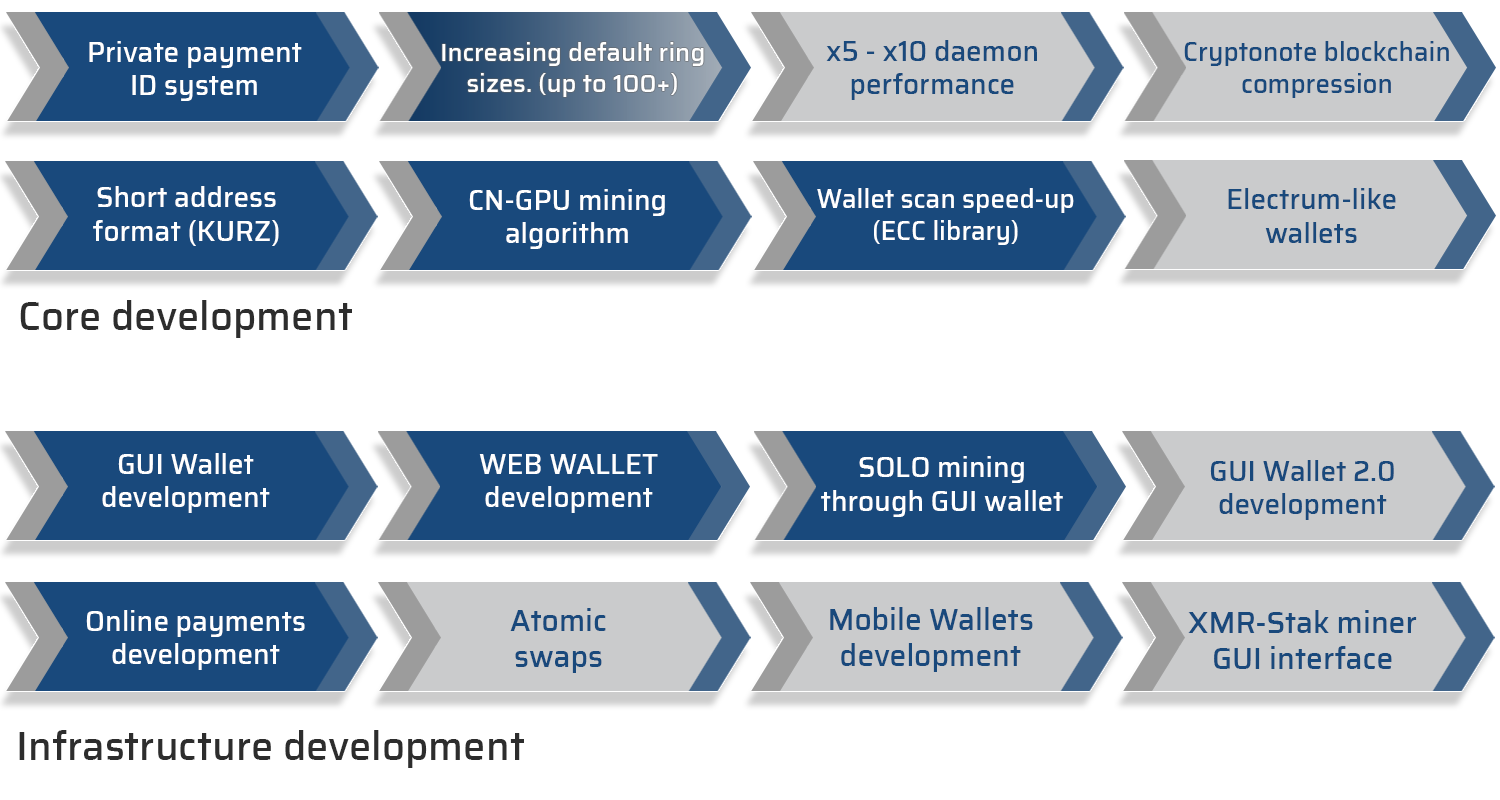
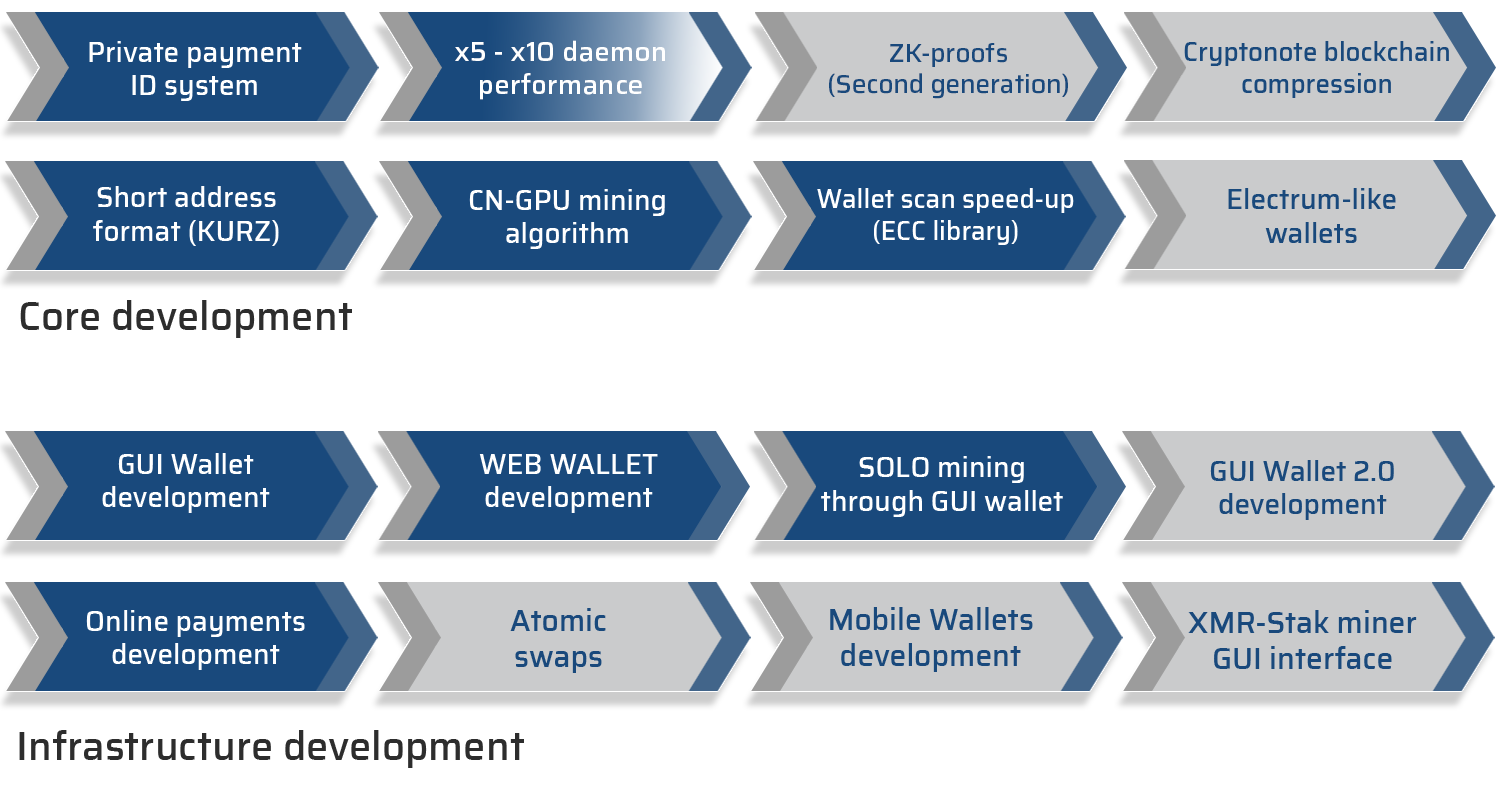
Update README

Changed region(s): [[0.276, 0.0, 0.5213, 0.1562], [0.5213, 0.0312, 0.736, 0.1562], [0.7053, 0.0312, 0.736, 0.0625]]

diff --git a/README.md b/README.md
@@ -1,6 +1,6 @@
 [<img src="doc/img/main_banner.png">](https://ryo-currency.com/ryo-serious-competitor-to-monero)
 
-Ryo is one of very few cryptonote currencies that does actual, rapid development. Its team is led by fireice_uk, mosu_forge and psychocrypt who are the developers of [Cryptonight-GPU](https://medium.com/@crypto_ryo/cryptonight-gpu-fpga-proof-pow-algorithm-based-on-floating-point-instructions-92524debf8e8) and [Cryptonight-Heavy](https://github.com/ryo-currency/ryo-writeups/blob/master/cn-heavy.md) mining algorithms, GUI Wallet with built-in GPU solo mining feature called [Ryo Wallet Atom](https://ryo-currency.com/atom) and [Xmr-Stak](https://github.com/fireice-uk/xmr-stak/releases) miner.
+Ryo is one of very few cryptonote currencies that does actual, rapid development. Its team is led by fireice_uk, mosu_forge and psychocrypt who are the developers of [Cryptonight-GPU](https://ryo-currency.com/cn-gpu) and [Cryptonight-Heavy](https://github.com/ryo-currency/ryo-writeups/blob/master/cn-heavy.md) mining algorithms, GUI Wallet with built-in GPU solo mining feature called [Ryo Wallet Atom](https://ryo-currency.com/atom), [Xmr-Stak](https://github.com/fireice-uk/xmr-stak/releases) miner, and [Ragerx](http://ragerx.lol/) mining platform.
 - Website: [ryo-currency.com](https://ryo-currency.com)
 - Mail: [contact@ryo-currency.com](mailto:contact@ryo-currency.com)
 
@@ -10,16 +10,19 @@ Ryo is one of very few cryptonote currencies that does actual, rapid development
 | 1. [Introduction](#introduction) | 7. [Community](#community) |
 | 2. [Check Development and get release binaries](#check-development-and-get-release-binaries) | 8. [Compiling Ryo from source](doc/compiling.md) |
 | 3. [Project Roadmap](#project-roadmap) | 9. [Debugging](doc/debugging.md) |
-| 4. [Features](#features) | 10. [LMDB](doc/lmdb.md) |
-| 5. [Research and contributing](#research-and-contributing) | 11. [Using Ryo with TOR and Readline](doc/tor_readline.md) |
-| 6. [Coin Supply & Emission](#coin-supply--emission) | 12. [Licensing details](#licensing-details) |
+| 4. [Features](#features) | 10. [Using Ryo with TOR and Readline](doc/tor_readline.md) |
+| 5. [Research and contributing](#research-and-contributing) | 11. [Licensing details](#licensing-details) |
+| 6. [Coin Supply & Emission](#coin-supply--emission) | |
 
 
 ## Introduction
-Ryo (両 in Japanese: one syllable) is the most **secure, private and untraceable cryptocurrency out there**. Ryo originated from the [_Tael_](https://en.wikipedia.org/wiki/Ry%C5%8D), an ancient Far East unit of weight standard used for exchanging gold and silver. Based on the foundations of Monero, Ryo emerged and is poised to dominate the privacy conscious crypto scene. Ryo is a fork of Sumokoin. You can read all fork-related information [here](doc/sumokoin.md).
+Ryo (両 in Japanese: one syllable) aims to be the most **secure, private and untraceable cryptocurrency out there**. Ryo originated from the [_Tael_](https://en.wikipedia.org/wiki/Ry%C5%8D), an ancient Far East unit of weight standard used for exchanging gold and silver. Based on the foundations of Monero, Ryo emerged and is poised to dominate the privacy conscious crypto scene. Ryo is a fork of Sumokoin. You can read all fork-related information [here](doc/sumokoin.md).
+
+## RingCT
+Ryo currently uses RingCT with a ring size of 25, however it is our decision that RingCT cannot fully protect against transaction tracking. As our promise to create the most private and untraceable cryptocurrency, we are planning on replacing RingCT with second generation ZK-proofs.
 
 ## Check Development and get release binaries
-[<img src="doc/img/github.png">](https://github.com/ryo-currency/ryo-currency/commits/dev)  
+[<img src="doc/img/github.png">](https://github.com/ryo-currency/ryo-currency/commits/dev)
 
 Please note that code is developed on the [dev branch](https://github.com/ryo-currency/ryo-currency/tree/dev), if you want to check out the latest updates, before they are merged on main branch, please refer there. Master branch will always point to a version that we consider stable, so you can download the code by simply typing `git clone https://github.com/ryo-currency/ryo-currency.git`
 
@@ -30,20 +33,20 @@ The authenticity of the checksums can be verified with the [PGP-key's](doc/pgp_k
 
 ## Project Roadmap
 The Ryo dev team has several vectors of development, and it has already brought results that we can see.
-[<img src="doc/img/RM.png">](https://ryo-currency.com#roadmap)  
+[<img src="doc/img/RM.png">](https://ryo-currency.com#roadmap)
 Navigate to Ryo official website to explore development track record and [roadmap](https://ryo-currency.com#roadmap) details.
 
 
 ## Features
-We have a solid track record and unique features that are not copied from other projects: 
+We have a solid track record and unique features that are not copied from other projects:
 
 
 [<img src="doc/img/ecc-banner.png">](https://github.com/ryo-currency/ryo-currency/pull/206)
 ### Core:
 - **Built-in elliptic curve library**. This library significantly increases wallet scan speeds compared to other CN projects.
-- **[Cryptonight-GPU mining algorithm](https://medium.com/@crypto_ryo/cryptonight-gpu-fpga-proof-pow-algorithm-based-on-floating-point-instructions-92524debf8e8)**. ASIC/FPGA/BOTNET resistant mining algorithm. GPU friendly and suitable for both AMD and Nvidia cards.
+- **[Cryptonight-GPU mining algorithm](https://ryo-currency.com/cn-gpu)**. ASIC/FPGA/BOTNET resistant mining algorithm. GPU friendly and suitable for both AMD and Nvidia cards.
 - **Uniform payment ID-s**. Our uniform payment ID system, makes transactions that use payment ID-s untraceable and hides the very fact that you use ID-s.
-- **Default ring size of transactions set to 25**. Increased default ring size significantly reduces the chance of being identified, traced or attacked by blockchain statistical analysis.
+- **Default ring size of transactions set to 25**. Increased default ring size significantly reduces the chance of address tracking on the blockchain.
 - **QWMA mining difficulty algorithm**. Reworked network difficulty adjustment algorithm, to make it more adaptive to network hashrate fluctuations thus bringing more stabillity.
 - **[Poisson probability check](https://github.com/ryo-currency/ryo-writeups/blob/master/poisson-writeup.md)**. This feature stops Verge-like offline timestamp attacks.
 - **(Optional) Short address format**. Short address format for users who don't need viewkey.
@@ -58,26 +61,28 @@ We have a solid track record and unique features that are not copied from other 
 
 GUI wallet | Web wallet | Cli wallet | Mobile | Hardware
 --- | --- | --- | --- | ---
-[v. 1.4.0](https://github.com/ryo-currency/ryo-wallet/releases/latest) | [Ryowebwallet](https://www.ryowebwallet.com/wallet-select) | [v. 0.4.1.0](https://github.com/ryo-currency/ryo-currency/releases/latest) | Developing | Planned
+[v. 1.5.0](https://github.com/ryo-currency/ryo-wallet/releases/latest) | [Ryowebwallet](https://www.ryowebwallet.com/wallet-select) | [v. 0.5.0.0](https://github.com/ryo-currency/ryo-currency/releases/latest) | Developing | Planned
 
 ## Research and contributing
 With privacy and security as the core foundation of Ryo, we invest time and effort into security research as well as investigate and analyze issues with the Cryptonote protocol in order to bring true default anonymity for users.
 - [Hiding your IP while using Ryo or other Cryptonotes](https://www.reddit.com/r/ryocurrency/comments/a4mppi/hiding_your_ip_while_using_ryo_or_other/)
 - [Tracing Cryptonote ring signatures using external metadata](https://medium.com/@crypto_ryo/tracing-cryptonote-ring-signatures-using-external-metadata-8e4866810006).
 - [How buying pot with Monero will get you busted — Knacc attack on Cryptonote coins](https://medium.com/@crypto_ryo/how-buying-pot-with-monero-will-get-you-busted-knacc-attack-on-cryptonote-coins-b157cd97e82f).
-- [On-chain tracking of Monero and other Cryptonotes](https://medium.com/@crypto_ryo/on-chain-tracking-of-monero-and-other-cryptonotes-e0afc6752527).  
+- [On-chain tracking of Monero and other Cryptonotes](https://medium.com/@crypto_ryo/on-chain-tracking-of-monero-and-other-cryptonotes-e0afc6752527).
+
 You can find all write-ups in our [Ryo library](https://ryo-currency.com/library/) on the website.
 
-Although Ryo Currency code in main repository is source available until February 2020, we have contributed back bug fixes and features to Monero project:
+Although Ryo Currency code in main repository is source available until February 2021, we have contributed back bug fixes and features to Monero project:
 - [Add Unicode input line](https://github.com/monero-project/monero/pull/4390).
-- [Fix for a wallet caching bug](https://github.com/monero-project/monero/pull/4247).  
-Loki Project decided to use own version of wallet, based on Ryo Wallet Atom [(libre repository)](https://github.com/ryo-currency/ryo-wallet-libre) as official GUI wallet. Triton Project uses GUI wallet that is based on Ryo Wallet Atom too.
- 
+- [Fix for a wallet caching bug](https://github.com/monero-project/monero/pull/4247).
+
+Loki Project decided to use own version of wallet, based on Ryo Wallet Atom [(libre repository)](https://github.com/ryo-currency/ryo-wallet-libre) as official GUI wallet.
+
 
 ## Coin Supply & Emission
 - **Total supply**: **88,188,888** coins in 20 years, then **263,000** coins will be emitted yearly to account for inflation.
 - More than **80 million coins are available** for community mining.
-- 8,790,000 Ryo coins were burned to get rid of the original Sumokoin premine. (You can check [burned premine keyimages](https://github.com/ryo-currency/ryo-currency/tree/master/utils/burned_premine_keyimages)). Additionally, 100,000 coins were premined and instantly unlocked to Sumokoin devs in 2017. The pre-mined coins have been [frozen/burned](https://github.com/ryo-currency/ryo-currency/blob/917dbb993178bb8a2ea571f214b15adcbb7c708f/src/blockchain_db/blockchain_db.cpp#L364) as announced on [reddit](https://www.reddit.com/r/ryocurrency/comments/8nb8eq/direction_for_ryo/). This can be verified using [those](/doc/verify_premine_burn_instructions.md) instructions.
+- 8,790,000 Ryo coins were burned to get rid of the original Sumokoin premine. (You can check [burned premine keyimages](https://github.com/ryo-currency/ryo-currency/tree/master/utils/burned_premine_keyimages)). The pre-mined coins have been [frozen/burned](https://github.com/ryo-currency/ryo-currency/blob/917dbb993178bb8a2ea571f214b15adcbb7c708f/src/blockchain_db/blockchain_db.cpp#L364) as announced on [reddit](https://www.reddit.com/r/ryocurrency/comments/8nb8eq/direction_for_ryo/). This can be verified using [those](/doc/verify_premine_burn_instructions.md) instructions.
 
 - After 2 rounds of community debates [(pt1](https://www.reddit.com/r/ryocurrency/comments/8xsyqo/community_debate_lets_talk_about_the_development/e26i1vw/) / [pt2)](https://github.com/ryo-currency/ryo-writeups/blob/master/dev-fund.md) **8,000,000** Ryo coins were introduced as development fund which is located in 2/3 multisig wallet and emitted on weekly basis next 6 years. In an effort to provide transparency to the community on how the development fund is allocated, Ryo dev team built the following [dev-fund explorer page](https://ryo-currency.com/dev-fund/).
 
@@ -91,7 +96,7 @@ Loki Project decided to use own version of wallet, based on Ryo Wallet Atom [(li
   + 1 milliRyo = 0.001 **RYO** (10<sup>-3</sup>)
 - **Emission scheme**: Ryo's block reward changes _every 6-months_ according to the following "Plateau" distribution*. Our emission scheme is inspired by real-world mining production comparable to crude oil, coal and gas which is often slow at first, accelerated in the next few years before declining and becoming depleted. However, the emission path of Ryo is generally not that far apart from Bitcoin. The emission curve for Ryo was one of the final aspects of the code we inherited from Sumokoin that was re-written and had to be even [fixed](https://medium.com/@ryo.currency/fixing-a-broken-emission-curve-818300e145a2) during May 2019 [community debates](https://github.com/ryo-currency/ryo-writeups/blob/master/emission-change-part-two.md).
 
-![Plateau emission curve](doc/img/emission-curve.png) 
+![Plateau emission curve](doc/img/emission-curve.png)
 
 ![Plateau emission block reward](doc/img/emission-block.png)
 

diff --git a/doc/compiling.md b/doc/compiling.md
@@ -36,7 +36,7 @@ library archives (`.a`).
 [^] On Debian/Ubuntu `libgtest-dev` only includes sources and headers. You must
 build the library binary manually. This can be done with the following command ```sudo apt-get install libgtest-dev && cd /usr/src/gtest && sudo cmake . && sudo make && sudo mv libg* /usr/lib/ ```
 
-Debian / Ubuntu one liner for all dependencies  
+Debian / Ubuntu one liner for all dependencies
 ``` sudo apt update && sudo apt install build-essential cmake pkg-config libboost-all-dev libssl-dev libzmq3-dev libunbound-dev libsodium-dev libunwind8-dev liblzma-dev libreadline6-dev libldns-dev libexpat1-dev doxygen graphviz libpgm-dev```
 
 ### Cloning the repository
@@ -60,7 +60,7 @@ invokes cmake commands as needed.
 * Change to the root of the source code directory, change to the most recent release branch, and build:
 
         cd ryo-currency
-        git checkout tags/0.4.0.0
+        git checkout tags/0.5.0.0
         make
 
     *Optional*: If your machine has several cores and enough memory, enable
@@ -73,7 +73,7 @@ invokes cmake commands as needed.
 
     *Note*: The instructions above will compile the most stable release of the
     Ryo software. If you would like to use and test the most recent software,
-    use ```git checkout master```. The master branch may contain updates that are
+    use ```git checkout dev```. The dev branch may contain updates that are
     both unstable and incompatible with release software, though testing is always
     encouraged.
 
@@ -120,8 +120,8 @@ Tested on a Raspberry Pi Zero with a clean install of minimal Raspbian Stretch (
 * Clone ryo and checkout most recent release version:
 ```
         git clone https://github.com/ryo-currency/ryo-currency.git
-	cd ryo-currency
-	git checkout tags/0.2.0
+        cd ryo-currency
+        git checkout tags/0.5.0.0
 ```
 * Build:
 ```
@@ -217,9 +217,9 @@ application.
 
         cd ryo-currency
 
-* If you would like a specific [version/tag](https://github.com/ryo-currency/ryo-currency/tags), do a git checkout for that version. eg. '0.2.0'. If you dont care about the version and just want binaries from master, skip this step:
+* If you would like a specific [version/tag](https://github.com/ryo-currency/ryo-currency/tags), do a git checkout for that version. eg. '0.5.0.0'. If you dont care about the version and just want binaries from master, skip this step:
 
-        git checkout 0.2.0
+        git checkout tags/0.5.0.0
 
 * If you are on a 64-bit system, run:
 
